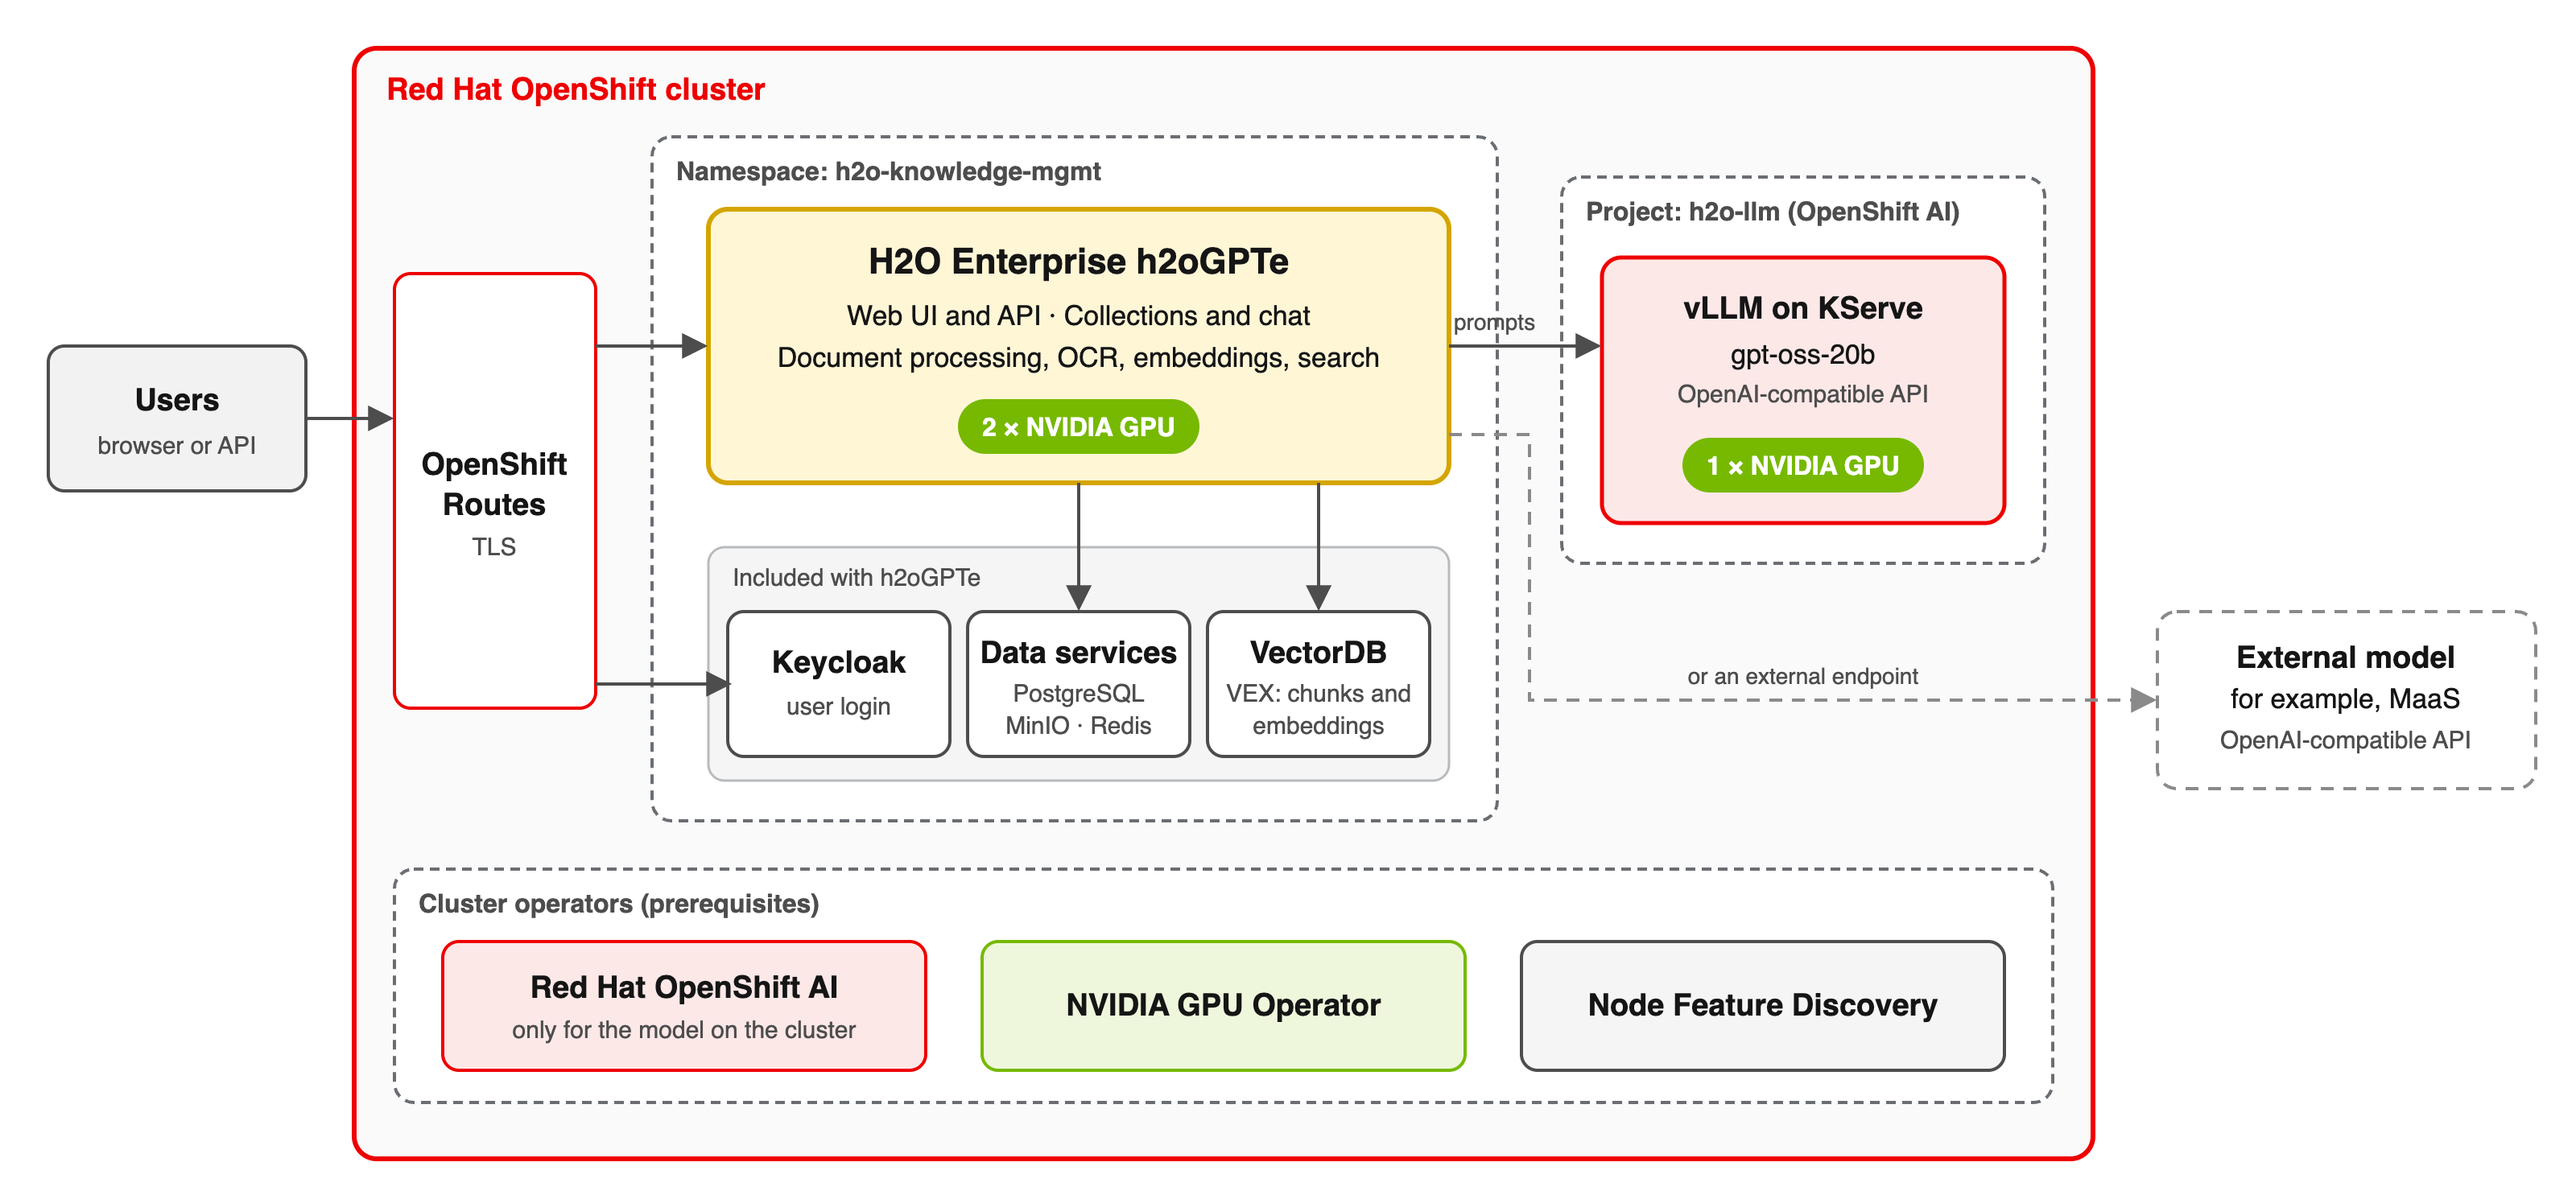
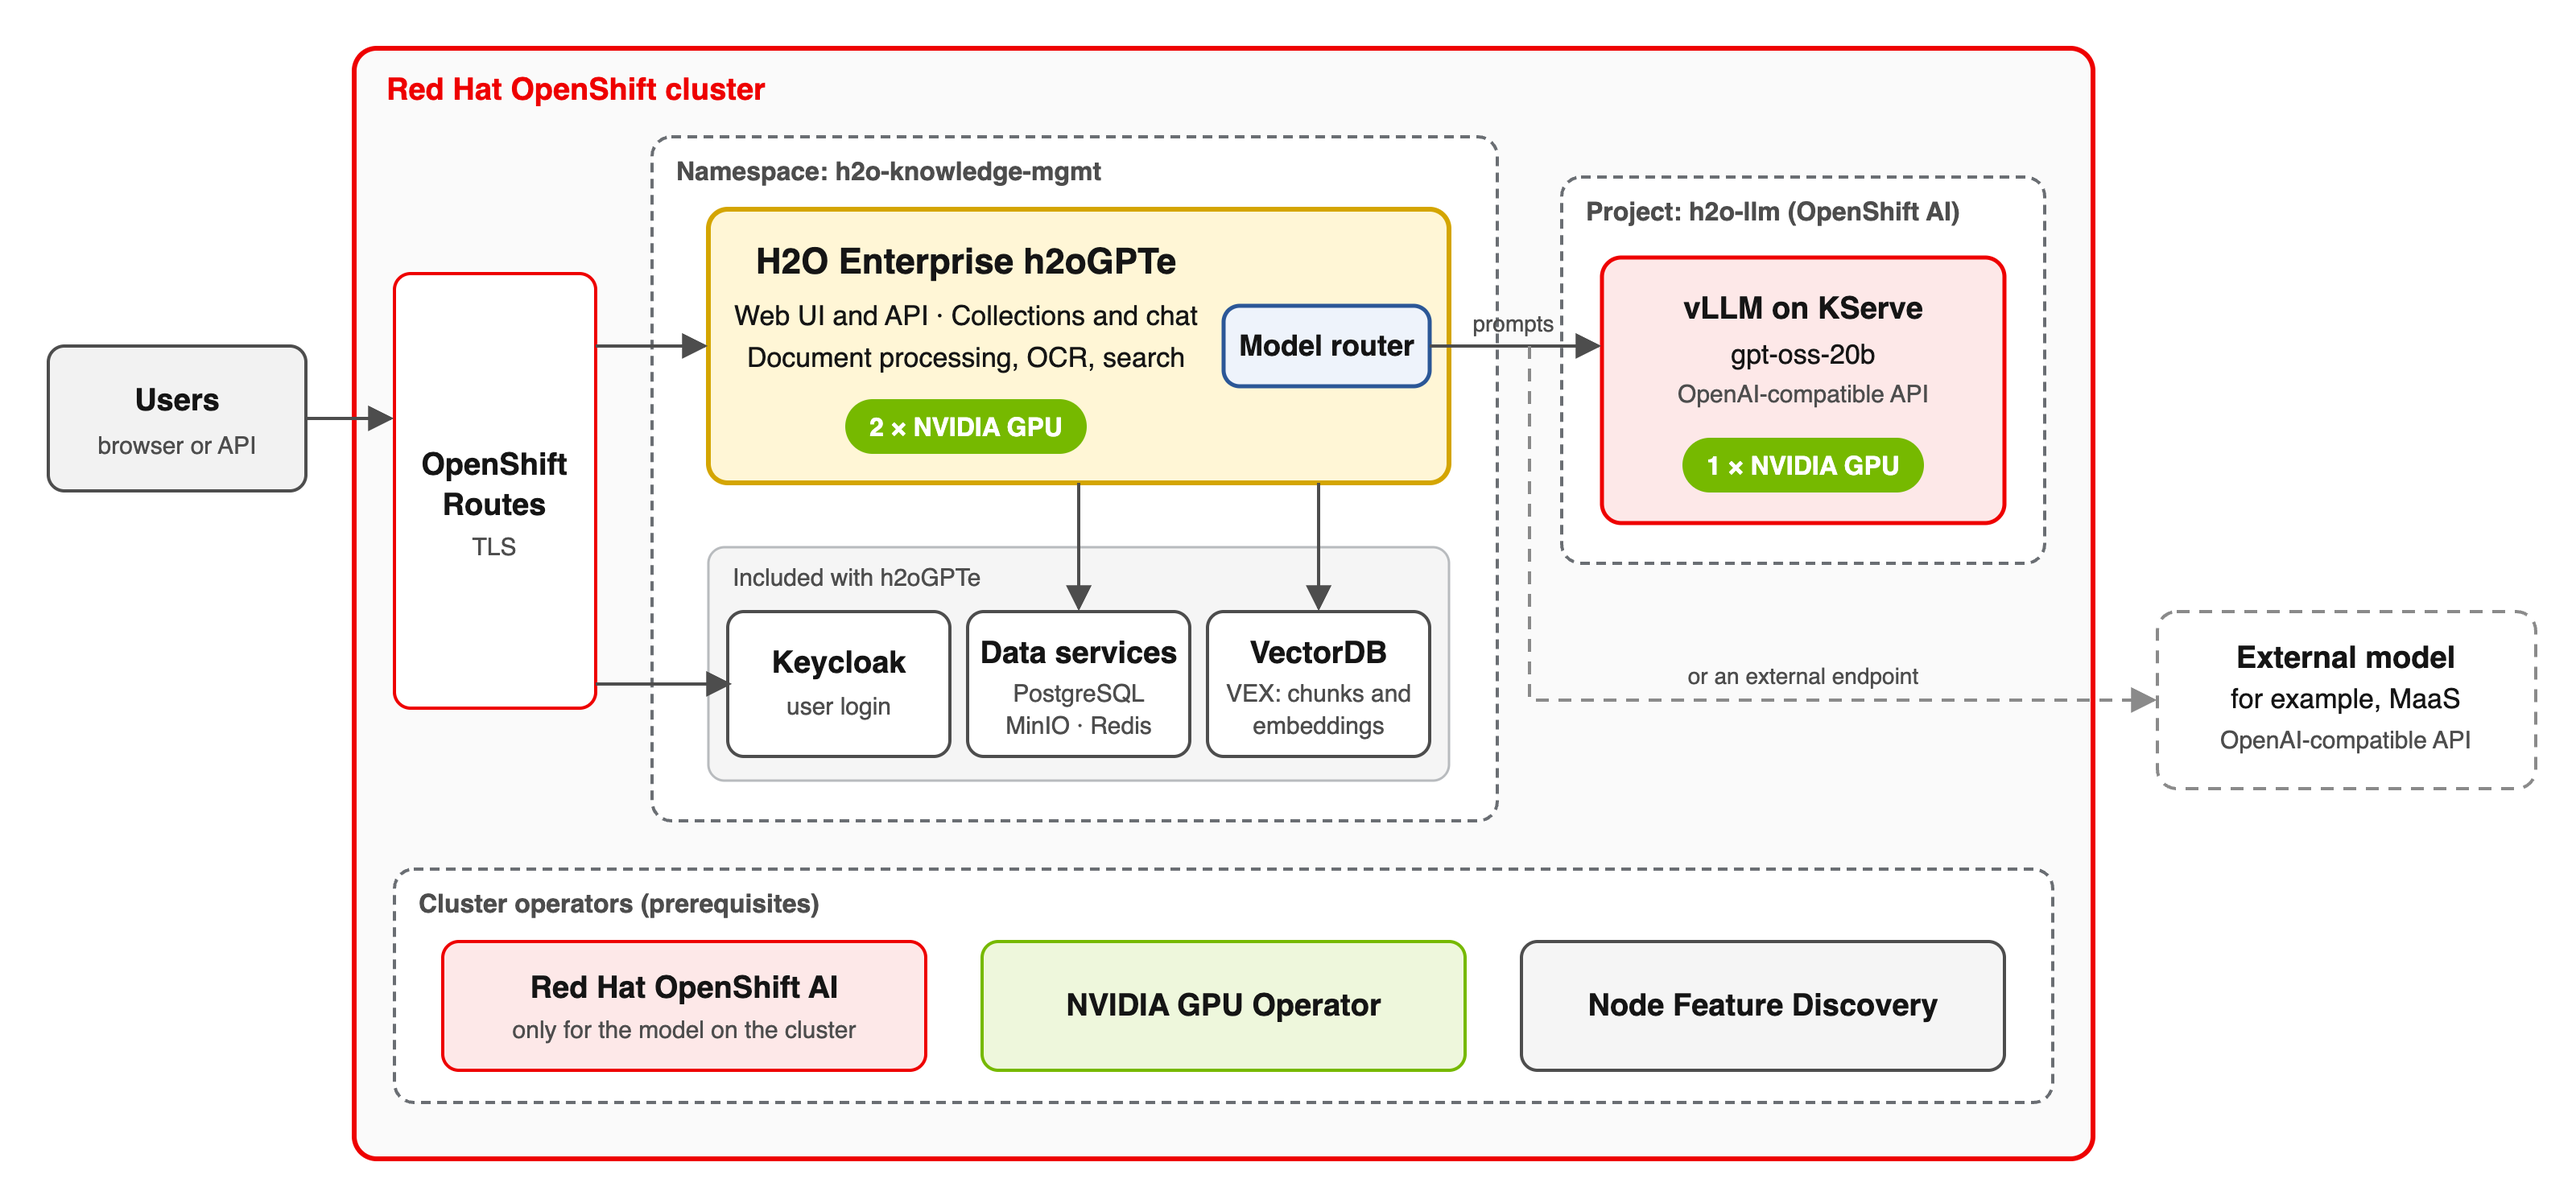
Add model router to architecture and fix model prefix in Raw JSON
- Architecture diagram: show the h2oGPTe model router, which sends
  prompts to vLLM on OpenShift AI or to an external endpoint
- Add the model in h2oGPTe: use "openai/<model ID>" in litellm_params,
  with an updated screenshot

Changed region(s): [[0.2812, 0.1865, 0.5938, 0.4041]]

diff --git a/quickstart/README.md b/quickstart/README.md
@@ -101,12 +101,12 @@ By the end of this quickstart, you will have:
 
 ### Architecture
 
-![Architecture diagram: users connect through OpenShift Routes to h2oGPTe and Keycloak in the h2o-knowledge-mgmt namespace. h2oGPTe uses 2 GPUs and the data services and vector database included with it, and sends prompts to an LLM, such as gpt-oss-20b, served by vLLM on OpenShift AI, or to an external endpoint such as MaaS.](docs/images/architecture.png)
+![Architecture diagram: users connect through OpenShift Routes to h2oGPTe and Keycloak in the h2o-knowledge-mgmt namespace. h2oGPTe uses 2 GPUs and the data services and vector database included with it, and its model router sends prompts to an LLM, such as gpt-oss-20b, served by vLLM on OpenShift AI, or to an external endpoint such as MaaS.](docs/images/architecture.png)
 
 | Layer | Component | Purpose |
 | --- | --- | --- |
 | **Access** | OpenShift Routes | Expose h2oGPTe and Keycloak to users over TLS |
-| **Knowledge management** | H2O Enterprise h2oGPTe (2 GPUs) | Web UI and API, collections and chat, document processing and OCR, embeddings, and search |
+| **Knowledge management** | H2O Enterprise h2oGPTe (2 GPUs) | Web UI and API, collections and chat, document processing and OCR, embeddings, and search. Its model router sends each prompt to the configured LLM. |
 | **Identity** | Keycloak (included with h2oGPTe) | User login for h2oGPTe |
 | **Data services** | PostgreSQL, MinIO, Redis (included with h2oGPTe) | Metadata, document storage, and caching |
 | **Vector database** | [VEX](https://docs.h2o.ai/enterprise-h2ogpte/architecture/vector-database) (included with h2oGPTe) | Stores the document passages and their embeddings for search |
@@ -326,13 +326,13 @@ oc run test-model-access --rm -it --restart=Never \
      "images_num_max": -2,
      "is_actually_vision_model": true,
      "is_actually_reasoning_model": true,
-     "lite_llm_yaml": "{\"model_name\": \"<model ID>\", \"litellm_params\": {\"model\": \"<model ID>\", \"api_base\": \"<endpoint URL>\", \"api_key\": \"<API key>\"}}",
+     "lite_llm_yaml": "{\"model_name\": \"<model ID>\", \"litellm_params\": {\"model\": \"openai/<model ID>\", \"api_base\": \"<endpoint URL>\", \"api_key\": \"<API key>\"}}",
      "cost_per_1k_input_tokens": 0.0001,
      "cost_per_1k_output_tokens": 0.00025
    }
    ```
 
-   - `<model ID>`: the model ID that the endpoint expects, for example `gpt-oss-20b`. Use the plain model ID, without a provider prefix such as `openai/`.
+   - `<model ID>`: the model ID that the endpoint expects, for example `gpt-oss-20b`. In `litellm_params`, keep the `openai/` prefix before the model ID: it tells h2oGPTe to call the endpoint with the OpenAI API.
    - `<endpoint URL>`: the endpoint URL, ending in `/v1`.
    - `<API key>`: the token or API key of the endpoint.
 
